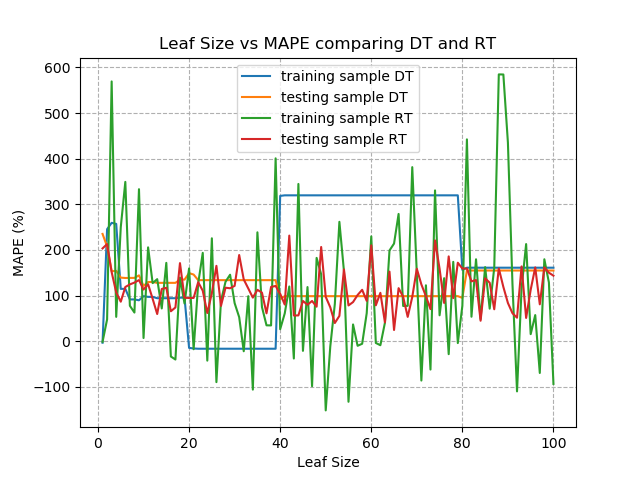
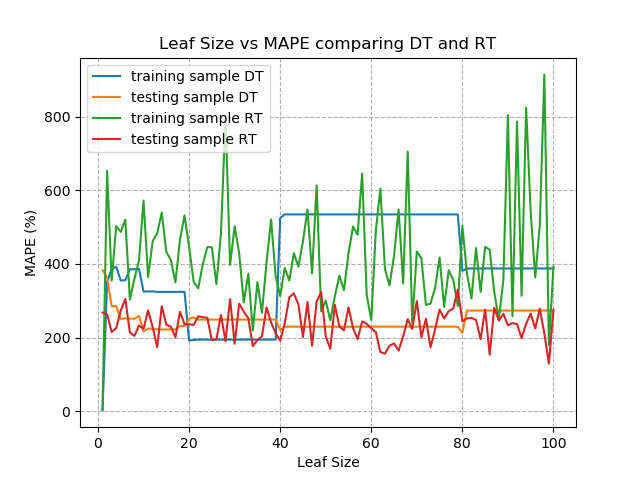
Project 3: updated graphs

diff --git a/assess_learners/testlearner.py b/assess_learners/testlearner.py
@@ -243,17 +243,6 @@ def experiment3_1(train_x, train_y, test_x, test_y):
     plt.savefig("Figure4.png")
     plt.clf()
 
-    # ticks = range(1, 101)
-    # plt.plot(ticks, test_DT, label="testing sample DT")
-    # plt.plot(ticks, test_RT, label="testing sample RT")
-    # plt.title("Leaf Size vs MAE with DT and RT (Testing)")
-    # plt.xlabel("Leaf Size")
-    # plt.ylabel("MAE")
-    # plt.grid(linestyle="--")
-    # plt.legend(loc="best")
-    # plt.savefig("Figure5.png")
-    # plt.clf()
-
 def experiment3_2(train_x, train_y, test_x, test_y):
     #mean absolute percentage error = mean(abs(true - pred) / true) * 100
     train_DT= []
@@ -268,15 +257,15 @@ def experiment3_2(train_x, train_y, test_x, test_y):
 
         train_pred_y_DT = DT.query(train_x)
         train_pred_y_RT = RT.query(train_x)
-        train_dt_mape = np.mean(np.abs(train_y - train_pred_y_DT) / train_y) * 100
-        train_rt_mape = np.mean(np.abs(train_y - train_pred_y_RT) / train_y) * 100
+        train_dt_mape = np.mean(np.abs((train_y - train_pred_y_DT) / train_y)) * 100
+        train_rt_mape = np.mean(np.abs((train_y - train_pred_y_RT) / train_y)) * 100
         train_DT.append(train_dt_mape)
         train_RT.append(train_rt_mape)
 
         test_pred_y_DT = DT.query(test_x)
         test_pred_y_RT = RT.query(test_x)
-        test_dt_mape = np.mean(np.abs(test_y - test_pred_y_DT) / test_y) * 100
-        test_rt_mape = np.mean(np.abs(test_y - test_pred_y_RT) / test_y) * 100
+        test_dt_mape = np.mean(np.abs((test_y - test_pred_y_DT) / test_y)) * 100
+        test_rt_mape = np.mean(np.abs((test_y - test_pred_y_RT) / test_y)) * 100
         test_DT.append(test_dt_mape)
         test_RT.append(test_rt_mape)
 
